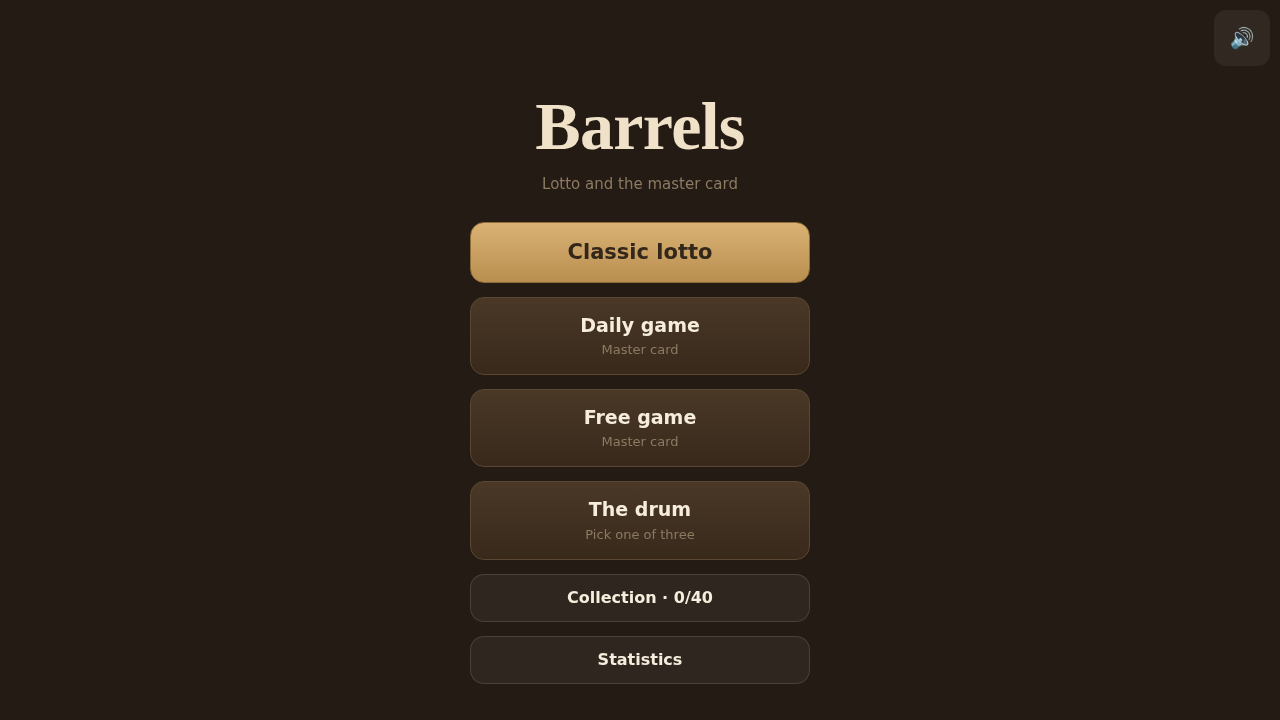
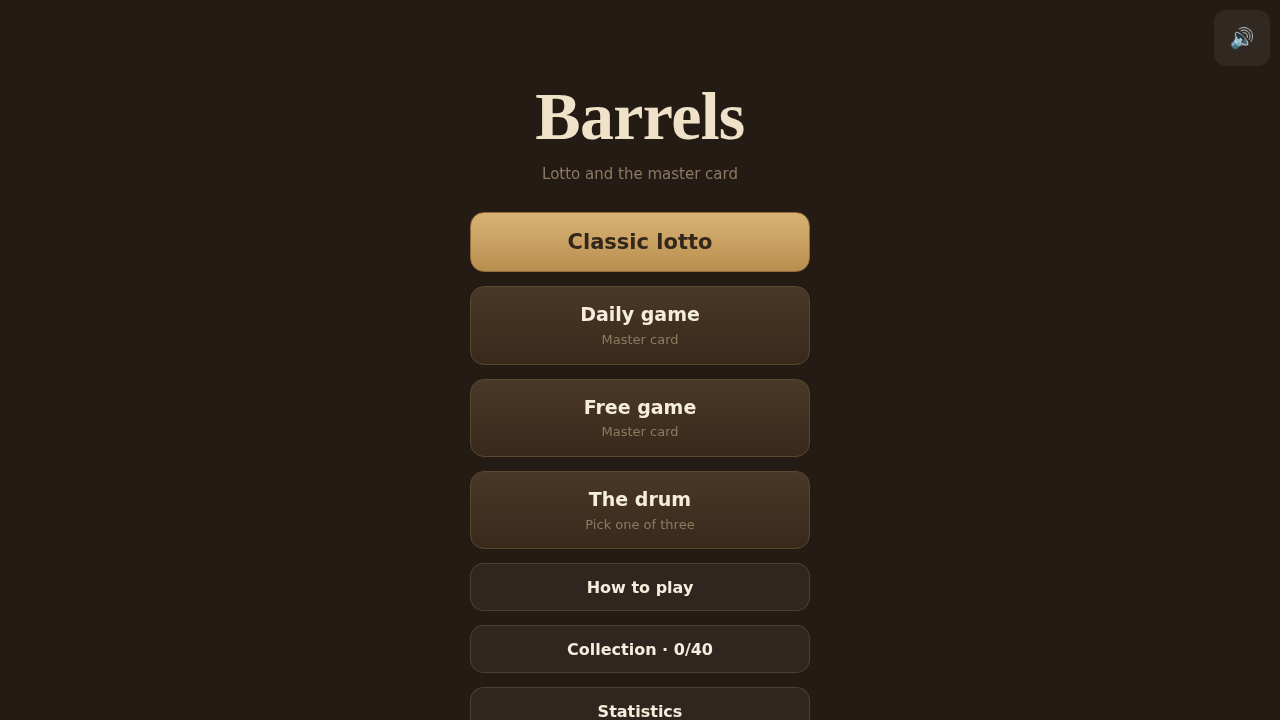
feat(bochonki): экран «Как играть» на схемах
В локализации ключ how_to был, самого экрана не было. Теперь он есть и
построен на схемах, а не на описаниях: миниатюрные поля 5×5 с подсвеченными
линиями и подписанной суммой очков, карточка лото с подсвеченным числом,
три бочонка барабана с обведённым выбранным, демонстрация подсказки в клетке.

Всё рисуется кодом — в билд не добавлено ни одной картинки.

Числа в примерах проверяются тестами против самой системы очков: экран обещает
+25 за строку, +30 за столбец и +18 за диагональ, и тест падает, если правила
изменятся, а туториал — нет. Отдельно проверено, что примеры не противоречат
подписям: строка возрастает, столбец из одного десятка, диагональ одной чётности.

Исправлена непоследовательность раскладки: у широкой карточки лото подпись
переносилась вниз, у узких схем оставалась сбоку. Теперь на узких экранах
подпись всегда под схемой.

50 тестов. Добавлены скриншоты экрана обучения на трёх языках.

diff --git a/games/bochonki/src/main.js b/games/bochonki/src/main.js
@@ -55,7 +55,7 @@ function go(next) {
 function render() {
   const html = {
     menu: renderMenu, master: renderMaster, lotto: renderLotto, drum: renderDrum,
-    result: renderResult, achievements: renderAch, stats: renderStats,
+    result: renderResult, achievements: renderAch, stats: renderStats, how: renderHow,
   }[view]();
   app.innerHTML = html;
 }
@@ -84,6 +84,7 @@ function renderMenu() {
       <span class="btn__note">${esc(t('play_master'))}</span></button>
     <button class="btn" data-act="drum">${esc(t('play_drum'))}
       <span class="btn__note">${esc(t('drum_sub'))}</span></button>
+    <button class="btn btn--ghost" data-act="how">${esc(t('how_to'))}</button>
     <button class="btn btn--ghost" data-act="ach">${esc(t('achievements'))} · ${unlocked}/${ach.TOTAL}</button>
     <button class="btn btn--ghost" data-act="stats">${esc(t('stats'))}</button>
   </div>`;
@@ -567,6 +568,115 @@ function renderStats() {
   </div>`;
 }
 
+// ---------------------------------------------------------------- как играть
+
+// Экран объясняет схемами, а не текстом: миниатюрное поле 5×5 с подсвеченной
+// линией показывает правило нагляднее любого описания.
+// Сетка строится кодом, поэтому в билд не добавляется ни одной картинки.
+
+function miniGrid(cells, highlight) {
+  const on = new Set(highlight.map(([r, c]) => r * SIZE + c));
+  let out = '';
+  for (let r = 0; r < SIZE; r++) {
+    for (let c = 0; c < SIZE; c++) {
+      const v = cells[r * SIZE + c];
+      const cls = on.has(r * SIZE + c) ? ' mg__c--on' : (v ? ' mg__c--set' : '');
+      out += `<i class="mg__c${cls}">${v || ''}</i>`;
+    }
+  }
+  return `<div class="mg" aria-hidden="true">${out}</div>`;
+}
+
+const blank = () => Array(SIZE * SIZE).fill(0);
+
+function ruleRow() {
+  const g = blank();
+  [4, 18, 29, 46, 72].forEach((v, i) => { g[2 * SIZE + i] = v; });
+  return miniGrid(g, [[2, 0], [2, 1], [2, 2], [2, 3], [2, 4]]);
+}
+function ruleCol() {
+  const g = blank();
+  [31, 35, 33, 38, 30].forEach((v, i) => { g[i * SIZE + 2] = v; });
+  return miniGrid(g, [[0, 2], [1, 2], [2, 2], [3, 2], [4, 2]]);
+}
+function ruleDiag() {
+  const g = blank();
+  [4, 18, 46, 72, 90].forEach((v, i) => { g[i * SIZE + i] = v; });
+  return miniGrid(g, [[0, 0], [1, 1], [2, 2], [3, 3], [4, 4]]);
+}
+
+function hintDemo() {
+  // Клетка с подсказкой: показываем ровно то, что игрок увидит в партии.
+  const g = blank();
+  g[1 * SIZE + 1] = 18;
+  g[1 * SIZE + 3] = 46;
+  let out = '';
+  for (let r = 0; r < SIZE; r++) {
+    for (let c = 0; c < SIZE; c++) {
+      const v = g[r * SIZE + c];
+      if (v) { out += `<i class="mg__c mg__c--set">${v}</i>`; continue; }
+      const good = r === 1 && c === 2;
+      out += `<i class="mg__c"><b class="mg__d${good ? ' mg__d--good' : ''}">${good ? '+6' : '0'}</b></i>`;
+    }
+  }
+  return `<div class="mg" aria-hidden="true">${out}</div>`;
+}
+
+function step(diagram, text, points) {
+  return `<div class="how__b">
+    <div class="how__dia">${diagram}${points ? `<span class="pts">${points}</span>` : ''}</div>
+    <p class="how__t">${esc(text)}</p>
+  </div>`;
+}
+
+function renderHow() {
+  const lottoCard = `<div class="mgl" aria-hidden="true">${
+    [[0, 14, 0, 36, 44, 0, 0, 77, 83],
+     [8, 17, 0, 0, 47, 52, 63, 0, 0],
+     [0, 0, 28, 0, 48, 0, 68, 78, 86]]
+      .flatMap((row) => row.map((n) =>
+        n === 63 ? `<i class="mg__c mg__c--hit">63</i>`
+                 : `<i class="mg__c${n ? ' mg__c--set' : ' mg__c--blank'}">${n || ''}</i>`)).join('')
+  }</div>`;
+
+  const drum = `<div class="how__cands" aria-hidden="true">
+      <span class="barrel barrel--sm">33</span>
+      <span class="barrel barrel--sm barrel--take">7</span>
+      <span class="barrel barrel--sm">54</span>
+    </div>`;
+
+  const master = `<div class="how__pair" aria-hidden="true">
+      <span class="barrel barrel--sm">29</span><span class="how__arr">→</span>${
+        miniGrid((() => { const g = blank(); g[2 * SIZE + 0] = 4; g[2 * SIZE + 1] = 18; return g; })(),
+                 [[2, 2]])}
+    </div>`;
+
+  return `
+  <div class="bar">
+    <button class="iconbtn" data-act="menu" aria-label="${esc(t('back'))}">←</button>
+    <div class="bar__spacer"></div>
+  </div>
+  <div class="scroll how">
+    <h3>${esc(t('play_lotto'))}</h3>
+    ${step(lottoCard, t('how_lotto'))}
+
+    <h3>${esc(t('play_master'))}</h3>
+    ${step(master, t('how_master'))}
+    ${step(hintDemo(), t('how_hint'))}
+
+    <h3>${esc(t('play_drum'))}</h3>
+    ${step(drum, t('how_drum'))}
+
+    <h3>${esc(t('how_rules'))}</h3>
+    ${step(ruleRow(), t('how_rows'), '+25')}
+    ${step(ruleCol(), t('how_cols'), '+30')}
+    ${step(ruleDiag(), t('how_diags'), '+18')}
+    <p class="note center">${esc(t('how_more'))}</p>
+    <p class="note center">${esc(t('how_ladder'))}</p>
+    <div class="actions"><button class="btn btn--main" data-act="menu">${esc(t('back'))}</button></div>
+  </div>`;
+}
+
 // ---------------------------------------------------------------- ввод
 
 app.addEventListener('click', (e) => {
@@ -581,6 +691,7 @@ app.addEventListener('click', (e) => {
   if (act === 'drum')  return startDrum();
   if (act === 'ach')   return go('achievements');
   if (act === 'stats') return go('stats');
+  if (act === 'how')   return go('how');
 
   if (act === 'sound') {
     setMuted(!isMuted());

diff --git a/games/bochonki/src/i18n.js b/games/bochonki/src/i18n.js
@@ -18,6 +18,16 @@ const RU = {
   play_daily: 'Партия дня',
   play_free: 'Свободная партия',
   how_to: 'Как играть',
+  how_lotto: 'Нажмите на выпавшее число, пока его не сменил следующий бочонок',
+  how_master: 'Поставьте бочонок в любую свободную клетку',
+  how_drum: 'Возьмите один бочонок из трёх. Два других вернутся в мешок',
+  how_rules: 'За что дают очки',
+  how_rows: 'Строка: числа по возрастанию слева направо',
+  how_cols: 'Столбец: числа из одного столбца карточки лото',
+  how_diags: 'Диагональ: числа одной чётности',
+  how_hint: 'Цифра в углу клетки — сколько даст бочонок именно здесь',
+  how_ladder: 'Правила открываются по одному: строки, затем столбцы, затем диагонали',
+  how_more: 'Чем длиннее совпадение, тем больше очков',
   achievements: 'Коллекция',
   stats: 'Статистика',
   back: 'Назад',
@@ -94,6 +104,16 @@ const EN = {
   play_daily: 'Daily game',
   play_free: 'Free game',
   how_to: 'How to play',
+  how_lotto: 'Tap the called number before the next barrel replaces it',
+  how_master: 'Place the barrel in any empty square',
+  how_drum: 'Take one barrel of three. The other two go back into the bag',
+  how_rules: 'What scores points',
+  how_rows: 'Row: numbers ascending left to right',
+  how_cols: 'Column: numbers from one lotto card column',
+  how_diags: 'Diagonal: numbers of the same parity',
+  how_hint: 'The small number in a corner is what the barrel gives there',
+  how_ladder: 'Rules unlock one at a time: rows, then columns, then diagonals',
+  how_more: 'The longer the match, the more points',
   achievements: 'Collection',
   stats: 'Statistics',
   back: 'Back',
@@ -170,6 +190,16 @@ const TR = {
   play_daily: 'Günün oyunu',
   play_free: 'Serbest oyun',
   how_to: 'Nasıl oynanır',
+  how_lotto: 'Çıkan sayıya, bir sonraki fıçı gelmeden dokunun',
+  how_master: 'Fıçıyı herhangi bir boş kareye koyun',
+  how_drum: 'Üç fıçıdan birini alın. Diğer ikisi torbaya geri döner',
+  how_rules: 'Puan neyden gelir',
+  how_rows: 'Satır: soldan sağa artan sayılar',
+  how_cols: 'Sütun: tombala kartının aynı sütunundan sayılar',
+  how_diags: 'Çapraz: aynı tek veya çift sayılar',
+  how_hint: 'Karenin köşesindeki küçük sayı, fıçının orada vereceği puandır',
+  how_ladder: 'Kurallar sırayla açılır: satırlar, sonra sütunlar, sonra çaprazlar',
+  how_more: 'Eşleşme ne kadar uzunsa puan o kadar yüksek',
   achievements: 'Koleksiyon',
   stats: 'İstatistik',
   back: 'Geri',

diff --git a/games/bochonki/styles.css b/games/bochonki/styles.css
@@ -212,8 +212,41 @@ h3{font-family:var(--num);font-size:21px;margin:18px 0 8px}
    На узких экранах ужимаются счётчики, а не кнопки: у кнопок зона нажатия
    обязана остаться 56 px, счётчики же не интерактивны. */
 @media (max-width:560px){
+  /* Подпись всегда под схемой: при подписи сбоку раскладка скакала —
+     широкая карточка лото переносила её вниз, а узкие схемы оставляли справа. */
+  .how__b{flex-direction:column;align-items:flex-start;gap:10px}
+  .how__t{flex:1 1 auto}
   .pill--opt{display:none}
   .pill{padding:4px 9px;min-width:0}
   .pill__k{font-size:9px;letter-spacing:.04em;white-space:nowrap}
   .pill__v{font-size:19px}
 }
+
+/* --- экран «Как играть»: схемы вместо описаний --- */
+.how{padding:0 2px 10px}
+.how h3{margin:26px 0 10px}
+.how h3:first-child{margin-top:6px}
+.how__b{display:flex;align-items:center;gap:16px;margin:0 0 16px;flex-wrap:wrap}
+.how__dia{display:flex;align-items:center;gap:10px;flex:none}
+.how__t{margin:0;flex:1 1 190px;font-size:15px;line-height:1.4;color:var(--paper)}
+
+/* миниатюрное поле 5×5 */
+.mg{display:grid;grid-template-columns:repeat(5,30px);gap:3px;padding:5px;
+  background:var(--card);border-radius:7px;flex:none}
+.mgl{display:grid;grid-template-columns:repeat(9,22px);gap:2px;padding:5px;
+  background:var(--card);border-radius:7px;flex:none}
+.mg__c{width:100%;aspect-ratio:1;border-radius:4px;background:#E3D3B4;
+  border:1px solid var(--card-line);display:grid;place-items:center;
+  font-family:var(--num);font-size:12px;font-weight:700;color:var(--card-ink);
+  font-variant-numeric:tabular-nums;font-style:normal}
+.mgl .mg__c{font-size:10px}
+.mg__c--blank{background:#D6C4A2;border-color:#C2AC87}
+.mg__c--on{background:var(--good-soft);border-color:var(--good);color:var(--good)}
+.mg__c--hit{background:var(--gold);animation:pulse 1.6s ease-in-out infinite}
+.mg__d{font-family:var(--sans);font-size:10px;font-weight:700;color:var(--mute);opacity:.6}
+.mg__d--good{color:var(--good);opacity:1}
+.pts{font-family:var(--num);font-size:26px;font-weight:700;color:var(--good-soft);
+  font-variant-numeric:tabular-nums;flex:none}
+.how__pair,.how__cands{display:flex;align-items:center;gap:9px}
+.how__arr{font-size:20px;color:var(--mute)}
+.barrel--take{outline:3px solid var(--gold);outline-offset:3px}

diff --git a/games/bochonki/test/howto.test.js b/games/bochonki/test/howto.test.js
@@ -1,0 +1,52 @@
+import test from 'node:test';
+import assert from 'node:assert/strict';
+import { SIZE, emptyGrid, scoreGrid } from '../src/scoring.js';
+
+// Экран «Как играть» рисует три примера и подписывает их очками.
+// Эти тесты держат туториал в согласии с реальными правилами:
+// если система очков изменится, тест упадёт раньше, чем игрок увидит враньё.
+
+const put = (cells) => {
+  const g = emptyGrid();
+  for (const [r, c, v] of cells) g[r][c] = v;
+  return g;
+};
+
+test('пример строки в туториале действительно даёт +25', () => {
+  const g = put([4, 18, 29, 46, 72].map((v, i) => [2, i, v]));
+  assert.equal(scoreGrid(g, ['rows']), 25);
+});
+
+test('пример столбца в туториале действительно даёт +30', () => {
+  const g = put([31, 35, 33, 38, 30].map((v, i) => [i, 2, v]));
+  assert.equal(scoreGrid(g, ['cols']), 30);
+});
+
+test('пример диагонали в туториале действительно даёт +18', () => {
+  const g = put([4, 18, 46, 72, 90].map((v, i) => [i, i, v]));
+  assert.equal(scoreGrid(g, ['diags']), 18);
+});
+
+test('пример подсказки в туториале действительно даёт +6', () => {
+  // 18 _ 46 в строке: постановка 29 между ними замыкает серию из трёх.
+  const g = put([[1, 1, 18], [1, 3, 46]]);
+  const before = scoreGrid(g, ['rows']);
+  g[1][2] = 29;
+  assert.equal(scoreGrid(g, ['rows']) - before, 6);
+});
+
+test('числа в примерах не противоречат подписям', () => {
+  const row = [4, 18, 29, 46, 72];
+  assert.deepEqual(row, [...row].sort((a, b) => a - b), 'строка обязана возрастать');
+
+  const col = [31, 35, 33, 38, 30];
+  const dec = (n) => (n >= 80 ? 8 : Math.floor(n / 10));
+  assert.equal(new Set(col.map(dec)).size, 1, 'столбец обязан быть из одного десятка');
+
+  const diag = [4, 18, 46, 72, 90];
+  assert.equal(new Set(diag.map((n) => n % 2)).size, 1, 'диагональ обязана быть одной чётности');
+
+  for (const n of [...row, ...col, ...diag]) {
+    assert.ok(n >= 1 && n <= 90, `${n} вне диапазона бочонков`);
+  }
+});

diff --git a/games/bochonki/README.md b/games/bochonki/README.md
@@ -12,6 +12,10 @@ HTML5-игра для Яндекс Игр: классическое русско
   системами очков, открывающимися лесенкой (строки → столбцы → диагонали);
   «Барабан», где вытягивание становится решением — из трёх выкаченных бочонков
   берётся один, два возвращаются в мешок и могут выпасть снова.
+- **Экран «Как играть»** — схемами, а не текстом: миниатюрные поля 5×5
+  с подсвеченными линиями и подписанными очками. Рисуется кодом, ассетов не добавляет.
+  Числа в примерах проверяются тестами против реальной системы очков,
+  поэтому туториал не может разойтись с игрой.
 - **Обучение подсветкой.** Каждая свободная клетка всегда показывает, сколько даст
   постановка. Подсказка и финальный счёт считаются одним и тем же кодом, и это
   закреплено тестом: сумма всех подсказок обязана равняться итоговому счёту.
@@ -30,7 +34,7 @@ HTML5-игра для Яндекс Игр: классическое русско
 ## Разработка
 
 ```sh
-npm test                 # 45 тестов: очки, мешок, барабан, карточка лото, локализация, достижения
+npm test                 # 50 тестов: очки, мешок, барабан, карточка лото, локализация, достижения
 python3 -m http.server 8777   # затем открыть http://127.0.0.1:8777/
 ./build.sh               # собрать build/bochonki.zip для консоли разработчика
 python3 tools/bundle.py  # собрать build/bochonki-single.html — вся игра одним файлом
@@ -106,6 +110,7 @@ tools/bundle.py    сборка всех модулей в один файл (д
 | `shot-{ru,en,tr}-2-master.png` | скриншот «Карточки мастера» |
 | `shot-{ru,en,tr}-3-drum.png` | скриншот режима «Барабан» |
 | `shot-{ru,en,tr}-4-lotto.png` | скриншот режима лото |
+| `shot-{ru,en,tr}-5-howto.png` | скриншот экрана «Как играть» |
 
 Пересобрать промоматериалы: `store/icon.html` и `store/cover.html` — обычные
 HTML-страницы, скриншот с них снимается любым браузером.

diff --git a/games/bochonki/store/moderator-comment.md b/games/bochonki/store/moderator-comment.md
@@ -50,9 +50,11 @@
 и серии ежедневных партий — это десятки сессий. Игра рассчитана на возвращение,
 а не на однократное прохождение.
 
-**Обучение.** Отдельного текстового туториала нет намеренно: каждая свободная клетка
-всегда показывает, сколько очков даст постановка текущего бочонка. Правила осваиваются
-за один ход через эту подсказку.
+**Обучение.** В меню есть экран «Как играть», построенный на схемах, а не на тексте:
+миниатюрные поля с подсвеченными линиями показывают, за что начисляются очки,
+рядом стоит конкретная сумма. Кроме того, во время партии каждая свободная клетка
+всегда показывает, сколько очков даст постановка текущего бочонка, — правила
+осваиваются за один ход, читать инструкцию не обязательно.
 
 **Интеграция SDK.**
 - `LoadingAPI.ready()` вызывается один раз сразу после первой отрисовки.

diff --git a/games/bochonki/store/console-fields.md b/games/bochonki/store/console-fields.md
@@ -219,7 +219,7 @@ tambur. Günlük oyun, liderlik tablosu, toplanacak 40 başarım.
 |---|---|
 | Иконка | `icon-1024.png` (или `icon-512.png`, если форма требует меньше) |
 | Обложка | `cover-1600x940.png` |
-| Скриншоты RU | `shot-ru-1-menu`, `shot-ru-2-master`, `shot-ru-3-drum`, `shot-ru-4-lotto` |
+| Скриншоты RU | `shot-ru-1-menu`, `shot-ru-2-master`, `shot-ru-3-drum`, `shot-ru-4-lotto`, `shot-ru-5-howto` |
 | Скриншоты EN | `shot-en-*` — те же четыре экрана |
 | Скриншоты TR | `shot-tr-*` — те же четыре экрана |
 
